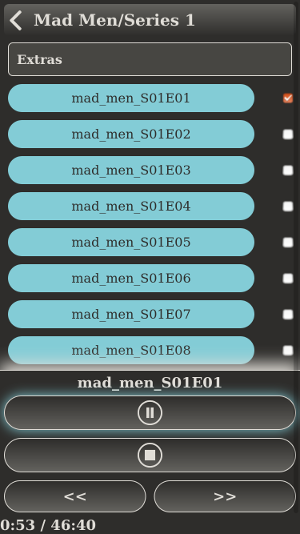
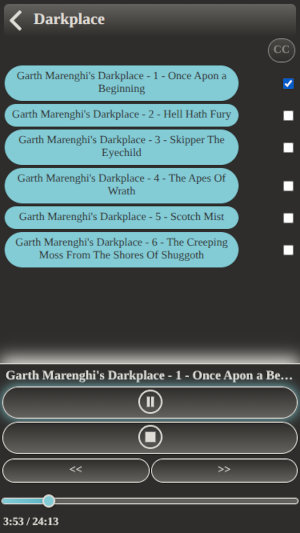
Progress bar (#4)
* Progress bar

* image

diff --git a/src/client/style.css b/src/client/style.css
@@ -1,3 +1,7 @@
+* {
+    box-sizing: border-box;
+}
+
 .button {
     border-radius: 25px;
     padding: 8px;
@@ -20,10 +24,11 @@
     top: auto;
     border-top: 1px solid #e0ddd7;
     box-shadow: 0px -8px 20px #e0ddd7;
-    padding-top: 4px;
+    padding: 4px 8px 4px 8px;
     background-color: #2e2d2b;
     bottom: 0;
     left: 0;
+    right: 0;
     width: 100%;
     min-height: 20%;
     font-size: 18px;
@@ -31,6 +36,8 @@
     display: flex;
     flex-direction: column;
     overflow-wrap: break-word;
+    box-sizing: border-box;
+    max-width: 100vw;
 }
 
 .title {
@@ -58,6 +65,8 @@
 .seekContainer {
     display: flex;
     flex-direction: row;
+    width: 100%;
+    box-sizing: border-box;
 }
 
 .seekButton {
@@ -76,8 +85,53 @@
 }
 
 .timer {
-    margin-left: 5px;
-    margin-bottom: 2px; 
+    margin-left: 0px;
+    margin-bottom: 2px;
+    padding-left: 5px;
+}
+
+.progressBarContainer {
+    padding: 10px 0px;
+    margin: 5px 0;
+    touch-action: none;
+    user-select: none;
+    width: 100%;
+    box-sizing: border-box;
+}
+
+.progressBar {
+    position: relative;
+    height: 8px;
+    background-color: #63625e;
+    border-radius: 4px;
+    cursor: pointer;
+    border: 1px solid #e0ddd7;
+    touch-action: none;
+    user-select: none;
+}
+
+.progressBarFill {
+    height: 100%;
+    background: linear-gradient(90deg, #83ccd6, #5ab4c4);
+    border-radius: 4px;
+    transition: width 0.1s ease;
+    pointer-events: none;
+    user-select: none;
+}
+
+.progressBarThumb {
+    position: absolute;
+    top: 50%;
+    width: 16px;
+    height: 16px;
+    background-color: #83ccd6;
+    border: 2px solid #e0ddd7;
+    border-radius: 50%;
+    transform: translate(-50%, -50%);
+    transition: left 0.1s ease;
+    box-shadow: 0 2px 4px rgba(0, 0, 0, 0.3);
+    user-select: none;
+    pointer-events: none;
 }
 
 .directory_container {
@@ -144,4 +198,44 @@
 .directory_subtitles-toggle .button {
     border: 1px solid #e0ddd7;
     background-image: linear-gradient( #63625e, #2e2d2b);
+}
+
+/* Mobile optimizations to prevent overflow */
+@media (max-width: 768px) {
+    .playbackContainer {
+        padding: 4px 2px;
+        font-size: 16px;
+    }
+    
+    .button {
+        margin: 2px 1px;
+        padding: 6px;
+        font-size: 14px;
+    }
+    
+    .pauseButton, .stopButton {
+        padding: 3px 3px 0 3px;
+    }
+    
+    .seekContainer {
+        margin: 2px 0;
+    }
+    
+    .seekButton {
+        margin: 2px 1px;
+    }
+    
+    .timer {
+        font-size: 14px;
+        padding-left: 2px;
+    }
+    
+    .title {
+        font-size: 16px;
+        margin: 2px 0;
+        padding: 0 5px;
+        overflow: hidden;
+        text-overflow: ellipsis;
+        white-space: nowrap;
+    }
 }

diff --git a/src/client/Player.tsx b/src/client/Player.tsx
@@ -1,5 +1,5 @@
 import * as React from 'react';
-import { useState, useEffect } from 'react';
+import { useState, useEffect, useRef } from 'react';
 import { PlaybackState } from '../shared/models';
 import { removeExtension } from './utils';
 import useInterval from './useInterval';
@@ -13,6 +13,56 @@ const minsAndSecs = (s: number): string => {
     const mins = `${Math.floor(s/60)}`;
     const seconds = `${s%60}`.padStart(2, '0');
     return `${mins}:${seconds}`;
+}
+
+interface ProgressBarProps {
+    playbackState: PlaybackState;
+    onSeek: (us: number) => void;
+}
+
+function ProgressBar(props: ProgressBarProps): React.ReactElement<ProgressBarProps> {
+    const progressRef = useRef<HTMLDivElement>(null);
+
+    const progress = props.playbackState.length > 0 
+        ? (props.playbackState.position / props.playbackState.length) * 100 
+        : 0;
+
+    const seekToPercentage = (percentage: number) => {
+        const clampedPercentage = Math.max(0, Math.min(1, percentage));
+        const newPosition = clampedPercentage * props.playbackState.length;
+        props.onSeek(newPosition - props.playbackState.position);
+    };
+
+    const handleClick = (e: React.MouseEvent) => {
+        if (!progressRef.current) return;
+        
+        e.preventDefault();
+        
+        const rect = progressRef.current.getBoundingClientRect();
+        const x = e.clientX - rect.left;
+        const percentage = x / rect.width;
+        seekToPercentage(percentage);
+    };
+
+    return (
+        <div className="progressBarContainer">
+            <div 
+                ref={progressRef}
+                className="progressBar"
+                onClick={handleClick}
+                style={{ cursor: 'pointer' }}
+            >
+                <div 
+                    className="progressBarFill"
+                    style={{ width: `${progress}%` }}
+                />
+                <div 
+                    className="progressBarThumb"
+                    style={{ left: `${progress}%` }}
+                />
+            </div>
+        </div>
+    );
 }
 
 interface TimerProps {
@@ -82,6 +132,10 @@ export const Player = ({
                     {'>>'}
                 </div>
             </div>
+            <ProgressBar 
+                playbackState={playbackState}
+                onSeek={onSeek}
+            />
             <Timer 
                 playbackState={playbackState}
             />
